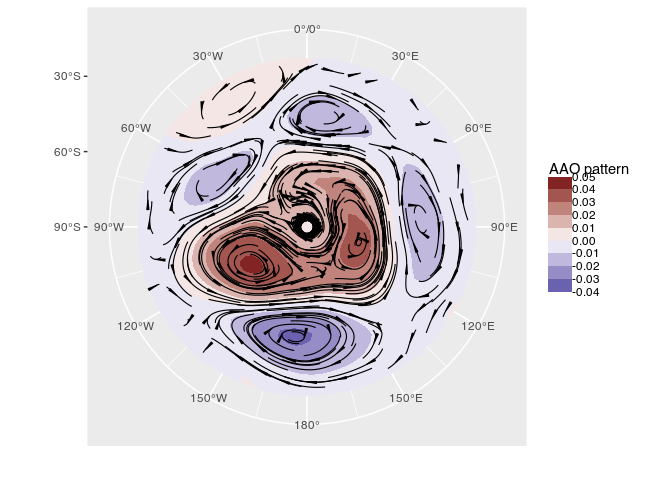
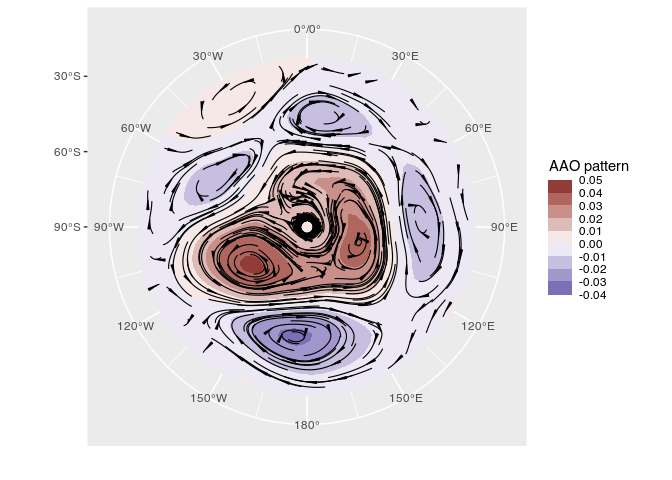
Updates Readme

Changed region(s): [[0.8125, 0.3125, 0.9375, 0.625]]

diff --git a/README.md b/README.md
@@ -3,17 +3,13 @@
 
 # metR <img src="man/figures/logo.png" align="right"/>
 
-[![Build
-Status](https://travis-ci.org/eliocamp/metR.svg?branch=master)](https://travis-ci.org/eliocamp/metR)
-[![Package
-Status](https://img.shields.io/badge/lifecycle-maturing-blue.svg)](https://www.tidyverse.org/lifecycle/#maturing)
+[![R build
+status](https://github.com/eliocamp/metR/workflows/R-CMD-check/badge.svg)](https://github.com/eliocamp/metR/actions)
 [![Coverage
 status](https://codecov.io/gh/eliocamp/metR/branch/master/graph/badge.svg)](https://codecov.io/github/eliocamp/metR/?branch=master)
 [![CRAN
 status](http://www.r-pkg.org/badges/version/metR)](https://cran.r-project.org/package=metR)
 [![DOI](https://zenodo.org/badge/96357263.svg)](https://zenodo.org/badge/latestdoi/96357263)
-[![R build
-status](https://github.com/eliocamp/metR/workflows/R-CMD-check/badge.svg)](https://github.com/eliocamp/metR/actions)
 
 metR packages several functions and utilities that make R better for
 handling meteorological data in the tidy data paradigm. It started
@@ -80,14 +76,13 @@ aao$left[, c("u", "v") := GeostrophicWind(gh.t.w, lon, lat)]
 # AAO field
 binwidth <- 0.01
 ggplot(aao$left, aes(lon, lat, z = gh.t.w)) +
-    geom_contour_fill(binwidth = binwidth, xwrap = c(0, 360)) +    # filled contours!
+    geom_contour_fill(aes(fill = stat(level)), binwidth = binwidth,
+                      xwrap = c(0, 360)) +    # filled contours!
     geom_streamline(aes(dx = dlon(u, lat), dy = dlat(v)), 
                     size = 0.4, L = 80, skip = 3, xwrap = c(0, 360)) +
     scale_x_longitude() +
     scale_y_latitude(limits = c(-90, -20)) +
-    scale_fill_divergent(name = "AAO pattern", 
-                         breaks = MakeBreaks(binwidth),
-                         guide = guide_colorstrip()) +
+    scale_fill_divergent_discretised(name = "AAO pattern") +
     coord_polar()
 #> Warning in .check_wrap_param(list(...)): 'xwrap' and 'ywrap' will be deprecated.
 #> Use ggperiodic::periodic insead.
